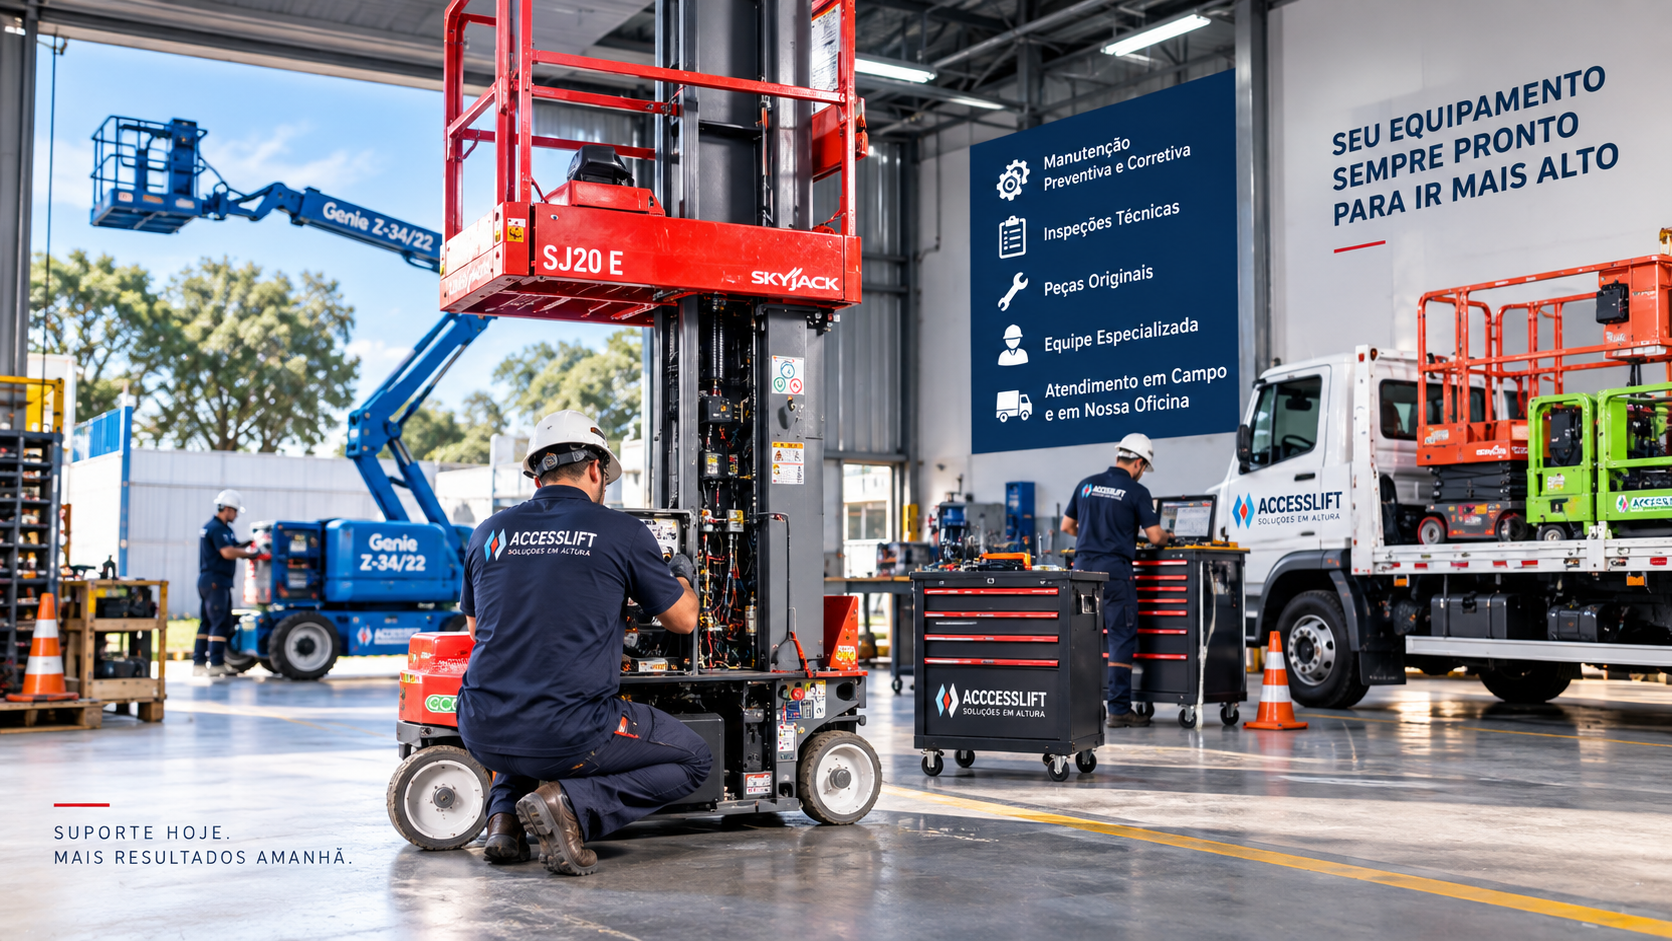
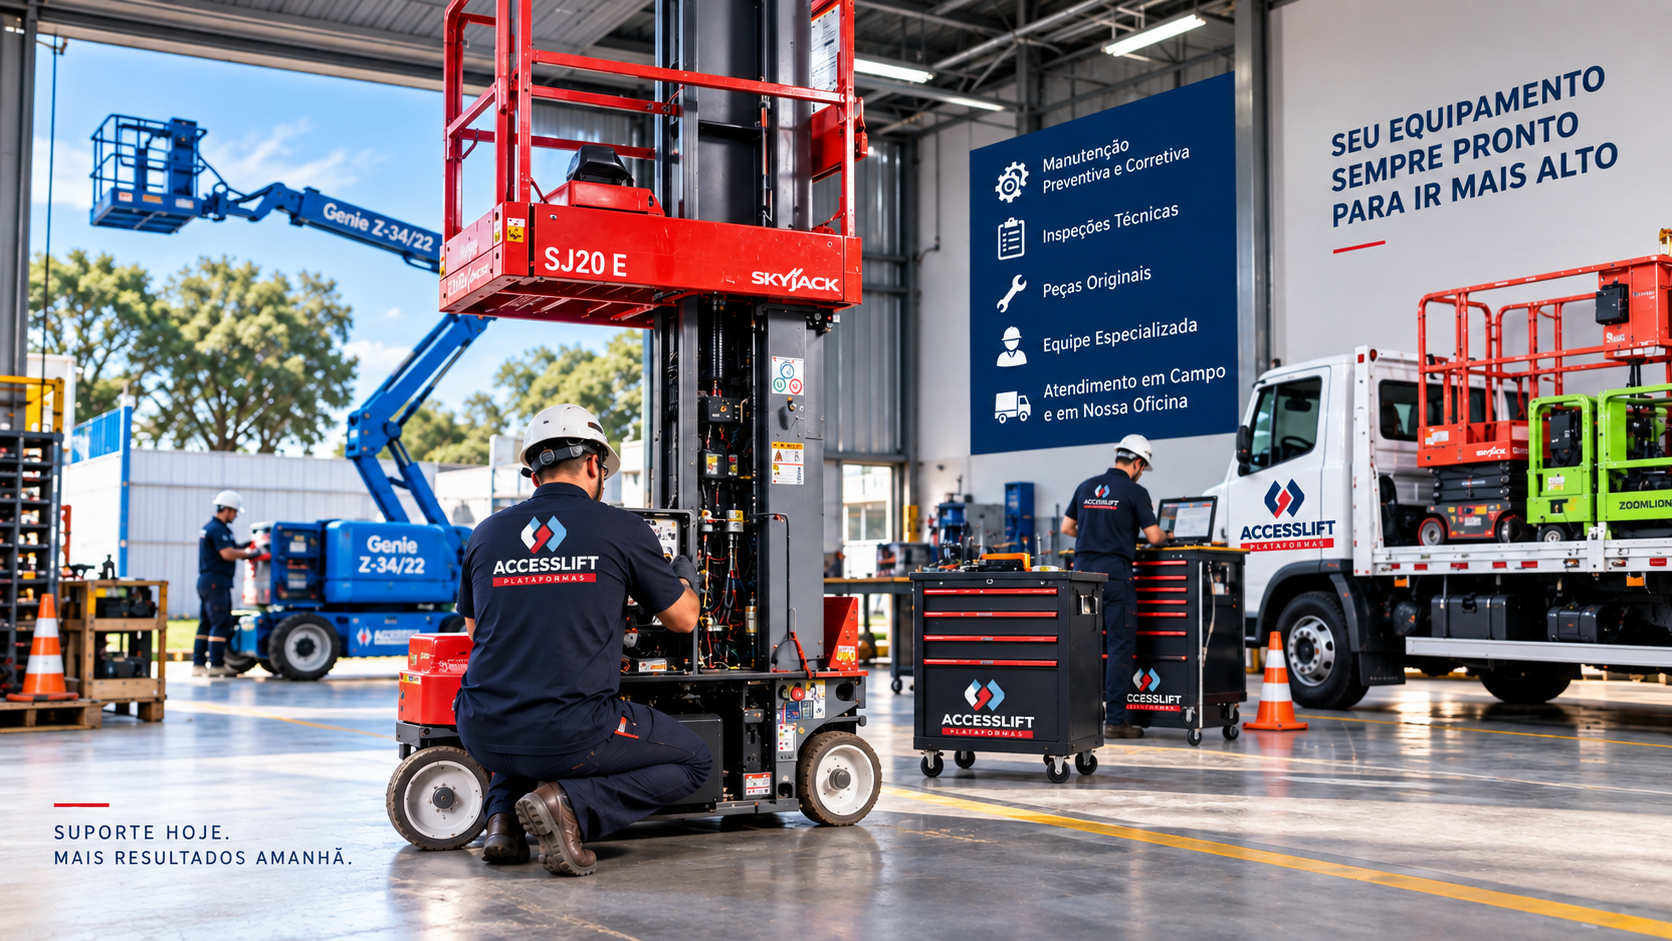
feat(doc2) att v2 accesslift alterando estilo visual do projeto novas fotos

diff --git a/src/accesslift/pages/shared/ClientPageTemplate.tsx b/src/accesslift/pages/shared/ClientPageTemplate.tsx
@@ -27,6 +27,18 @@ const editorialOpeningPaths = new Set([
   "/segmentos/supermercados-e-hipermercados/", "/segmentos/atacados/", "/area-de-atendimento/",
 ]);
 
+const heroImageByPath: Record<string, (typeof heroImages)[keyof typeof heroImages]> = {
+  "/servicos/": heroImages.servicos,
+  "/empresa/": heroImages.empresa,
+  "/servicos/assistencia-tecnica/": heroImages.assistencia,
+  "/servicos/manutencao-preventiva/": heroImages.manutencao,
+  "/servicos/treinamento-de-operadores/": heroImages.treinamento,
+  "/segmentos/atacados/": heroImages.atacados,
+  "/segmentos/construcao-civil/": heroImages.construcao,
+  "/segmentos/industria/": heroImages.industria,
+  "/segmentos/supermercados-e-hipermercados/": heroImages.supermercados,
+};
+
 function SectionMedia({ section, heroMedia }: { section: ClientSection; heroMedia?: keyof typeof media }) {
   const photo = section.media && section.media !== "company-gallery" ? media[section.media] : null;
   return <>
@@ -48,7 +60,7 @@ function SectionMedia({ section, heroMedia }: { section: ClientSection; heroMedi
 export function ClientPageTemplate({ page }: { page: ClientPage }) {
   const heroMedia = heroMediaByPath[page.path];
   return <>
-    <ConversionHero compact image={heroMedia ? media[heroMedia] : undefined} eyebrow={page.eyebrow} title={page.title} description={page.description} primaryCta={page.actions[0]} secondaryCta={page.actions[1]} />
+    <ConversionHero compact image={heroImageByPath[page.path]} eyebrow={page.eyebrow} title={page.title} description={page.description} primaryCta={page.actions[0]} secondaryCta={page.actions[1]} />
     {page.sections.map((section, index) => <div key={section.title} data-client-block={index + 2} id={section.form ? "solicitar-assistencia" : section.eyebrow === "Modalidades" ? "modalidades-treinamento" : undefined} className="scroll-mt-32">
       {section.media !== "company-gallery" && (section.items ? <SectionList {...section} items={section.items} eyebrow={section.eyebrow || page.eyebrow} cta={undefined} /> : <ValueSection {...section} description={section.description || ""}
         lineEyebrow={page.path === "/servicos/" && index === 0}

diff --git a/scripts/test-client-visuals.ts b/scripts/test-client-visuals.ts
@@ -14,11 +14,16 @@ function render(path: string) {
 
 for (const [path, file] of [
   ["/servicos/", "/heroes/servicos.png"],
-  ["/empresa/", "/empresa/operacao-access-lift-em-ambiente-industrial.jpeg"],
-  ["/servicos/treinamento-de-operadores/", "/servicos/treinamento-assistencia.jpeg"],
-  ["/servicos/assistencia-tecnica/", "/servicos/treinamento-assistencia-03.jpeg"],
+  ["/empresa/", "/heroes/empresa.png"],
+  ["/servicos/treinamento-de-operadores/", "/heroes/treinamento.png"],
+  ["/servicos/assistencia-tecnica/", "/heroes/assistencia-tecnica.png"],
+  ["/servicos/manutencao-preventiva/", "/heroes/manutencao-preventiva.png"],
+  ["/segmentos/atacados/", "/heroes/atacados.png"],
+  ["/segmentos/construcao-civil/", "/heroes/construcao-civil.png"],
+  ["/segmentos/industria/", "/heroes/industria.png"],
+  ["/segmentos/supermercados-e-hipermercados/", "/heroes/supermercados.png"],
 ]) {
-  test(`existing photo moves once into hero: ${path}`, () => {
+  test(`assigned photo appears once in hero: ${path}`, () => {
     const html = render(path);
     const src = `/images/accesslift${file}`;
     assert.equal(html.split(`src="${src}"`).length - 1, 1);

diff --git a/src/accesslift/data/heroImages.ts b/src/accesslift/data/heroImages.ts
@@ -3,6 +3,14 @@ const hero = (name: string, alt: string) => ({
 });
 
 export const heroImages = {
+  empresa: hero("empresa", "AccessLift Plataformas"),
+  assistencia: { ...hero("assistencia-tecnica", "Assistência técnica para plataformas elevatórias"), width: 1671 },
+  manutencao: hero("manutencao-preventiva", "Manutenção preventiva de plataformas elevatórias"),
+  treinamento: hero("treinamento", "Treinamento para operação de plataformas elevatórias"),
+  atacados: hero("atacados", "Plataformas elevatórias para atacados"),
+  construcao: hero("construcao-civil", "Plataformas elevatórias para construção civil"),
+  industria: hero("industria", "Plataformas elevatórias para a indústria"),
+  supermercados: hero("supermercados", "Plataformas elevatórias para supermercados e hipermercados"),
   contato: hero("contato", "Atendimento AccessLift para locação de plataformas elevatórias"),
   locacao: hero("locacao", "Locação de plataformas elevatórias AccessLift em São Paulo"),
   orcamento: hero("orcamento", "Solicitação de orçamento de plataformas elevatórias AccessLift"),
